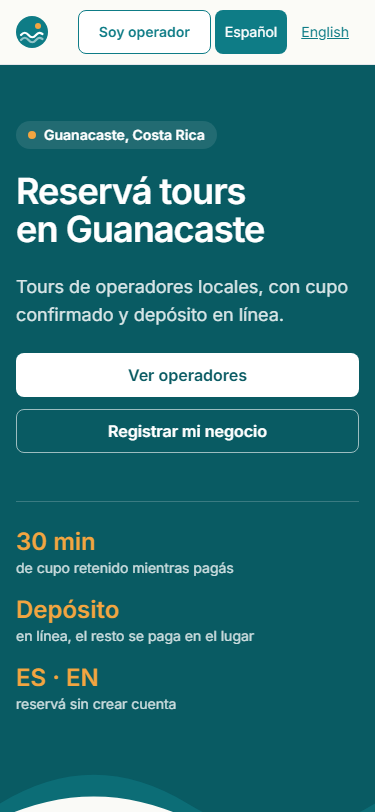
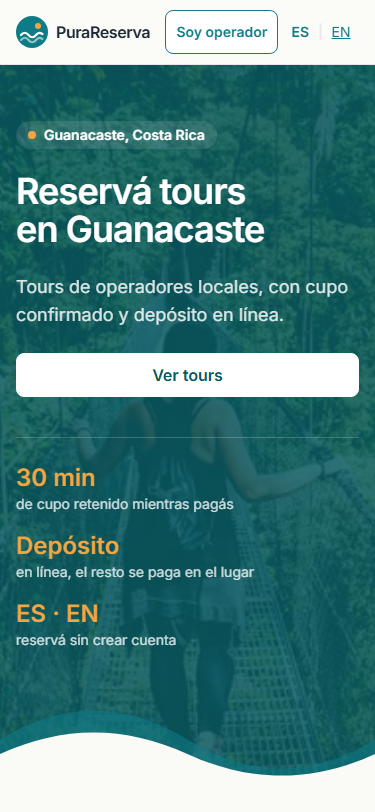
v1.1 paso 9: README con capturas nuevas y nota de la v1.1

diff --git a/README.md b/README.md
@@ -6,6 +6,8 @@ Cada negocio se registra, publica sus tours y programa salidas con cupo. Los tur
 
 Es un proyecto de portafolio. Todo funciona de punta a punta en modo prueba. No se cobra dinero real.
 
+v1.1: mejoras de experiencia, SEO y accesibilidad.
+
 ## Demo
 
 - Sitio: https://purareserva.vercel.app
